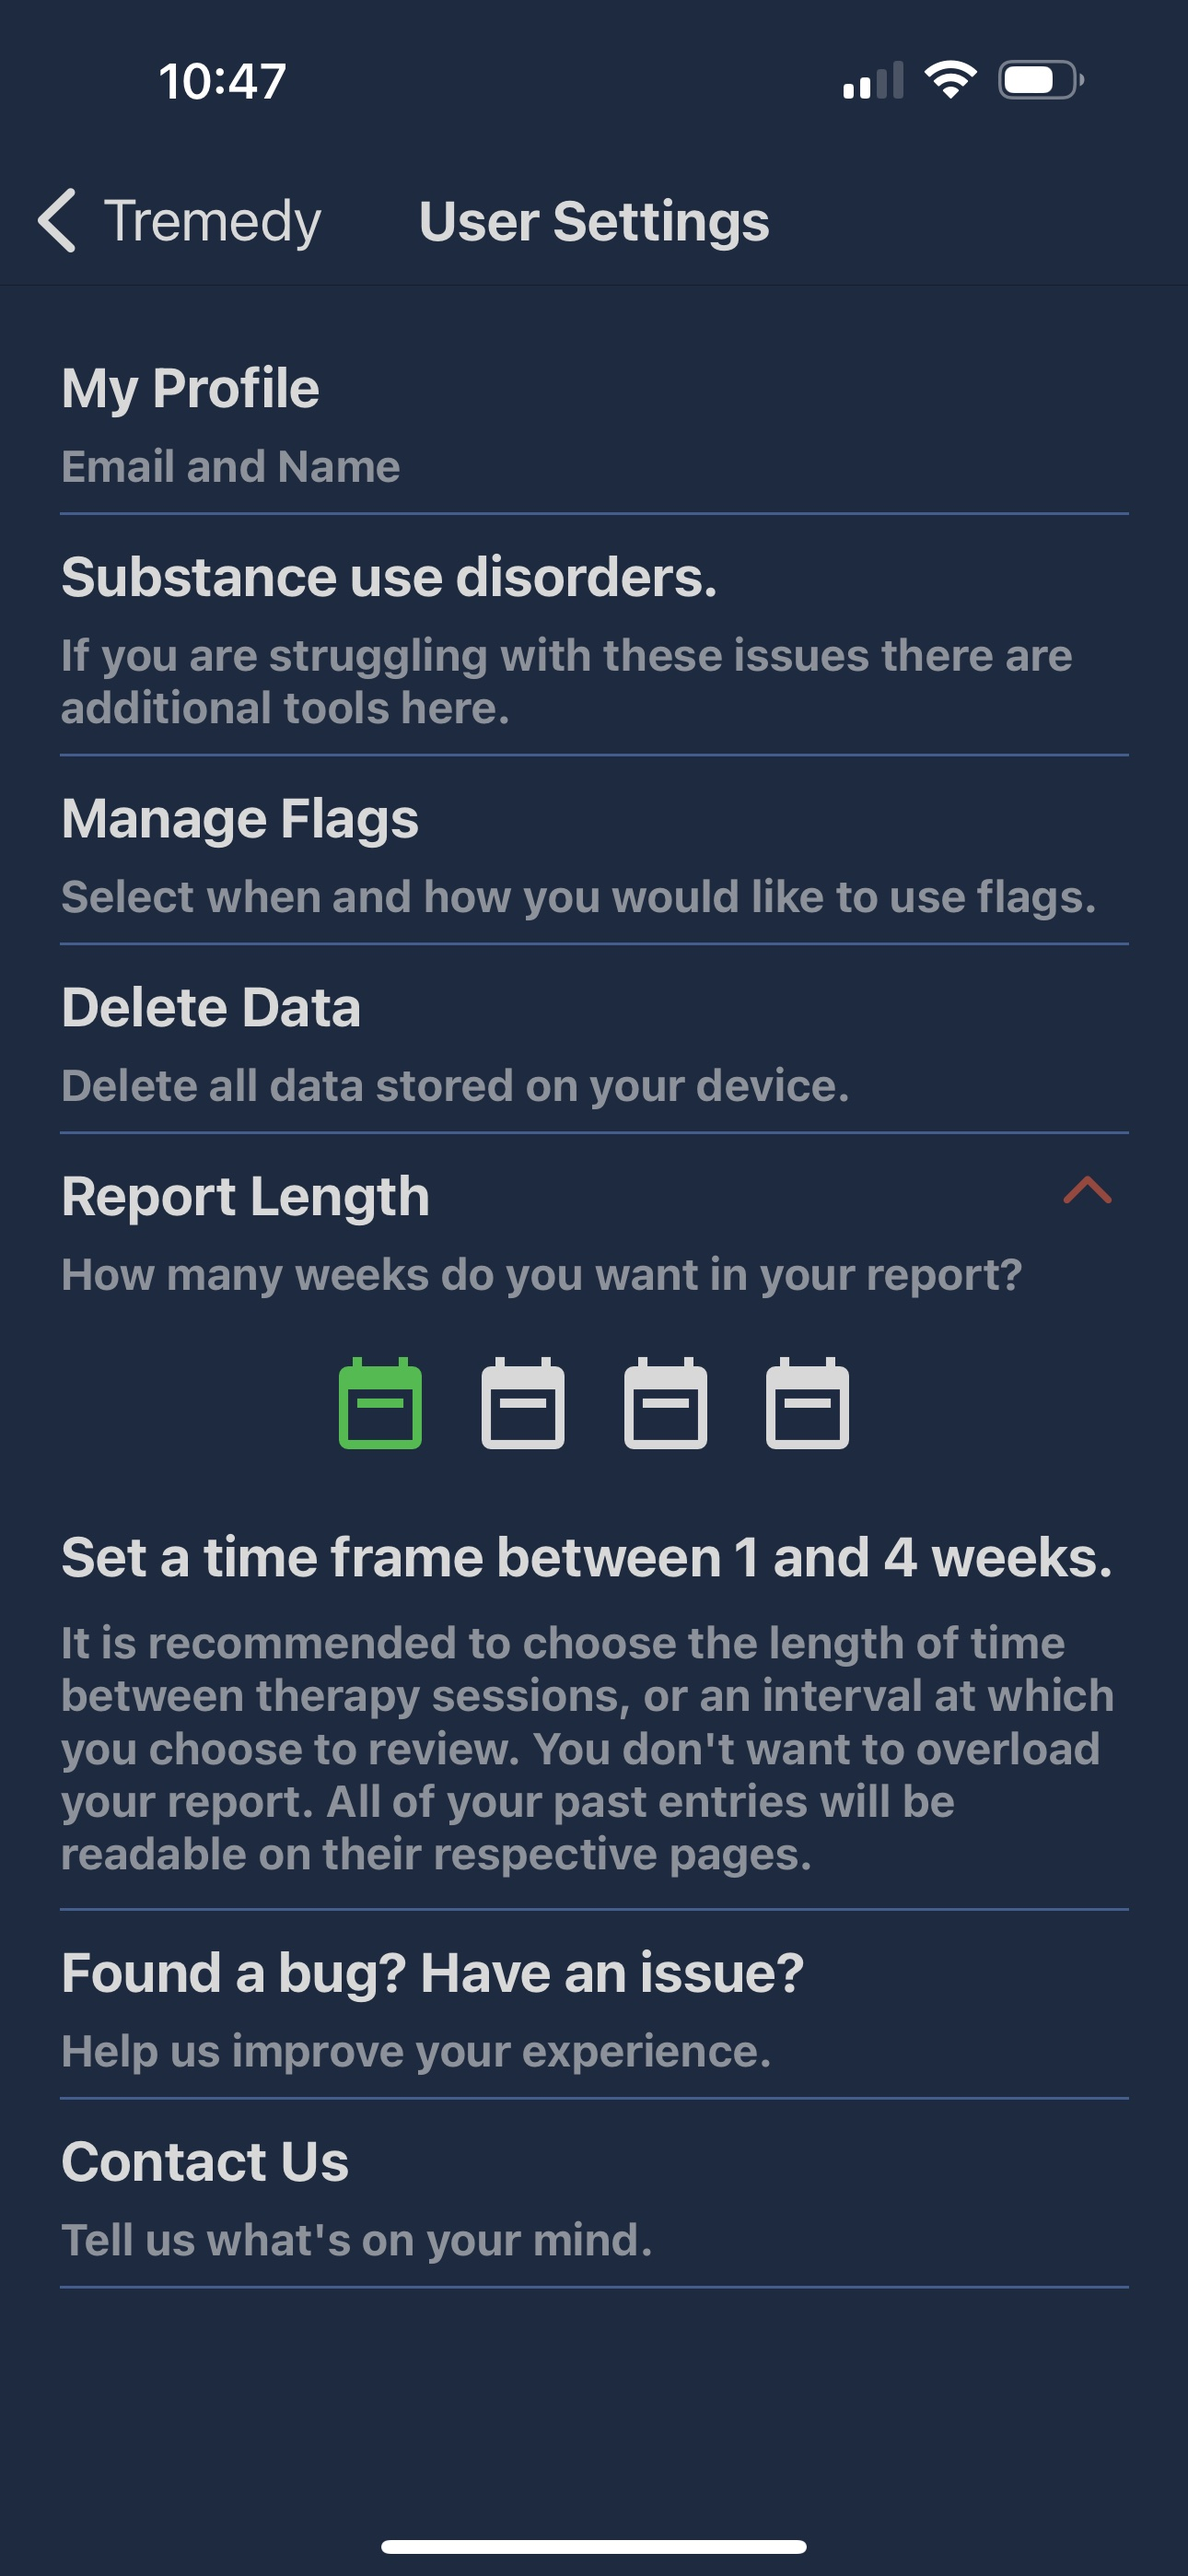
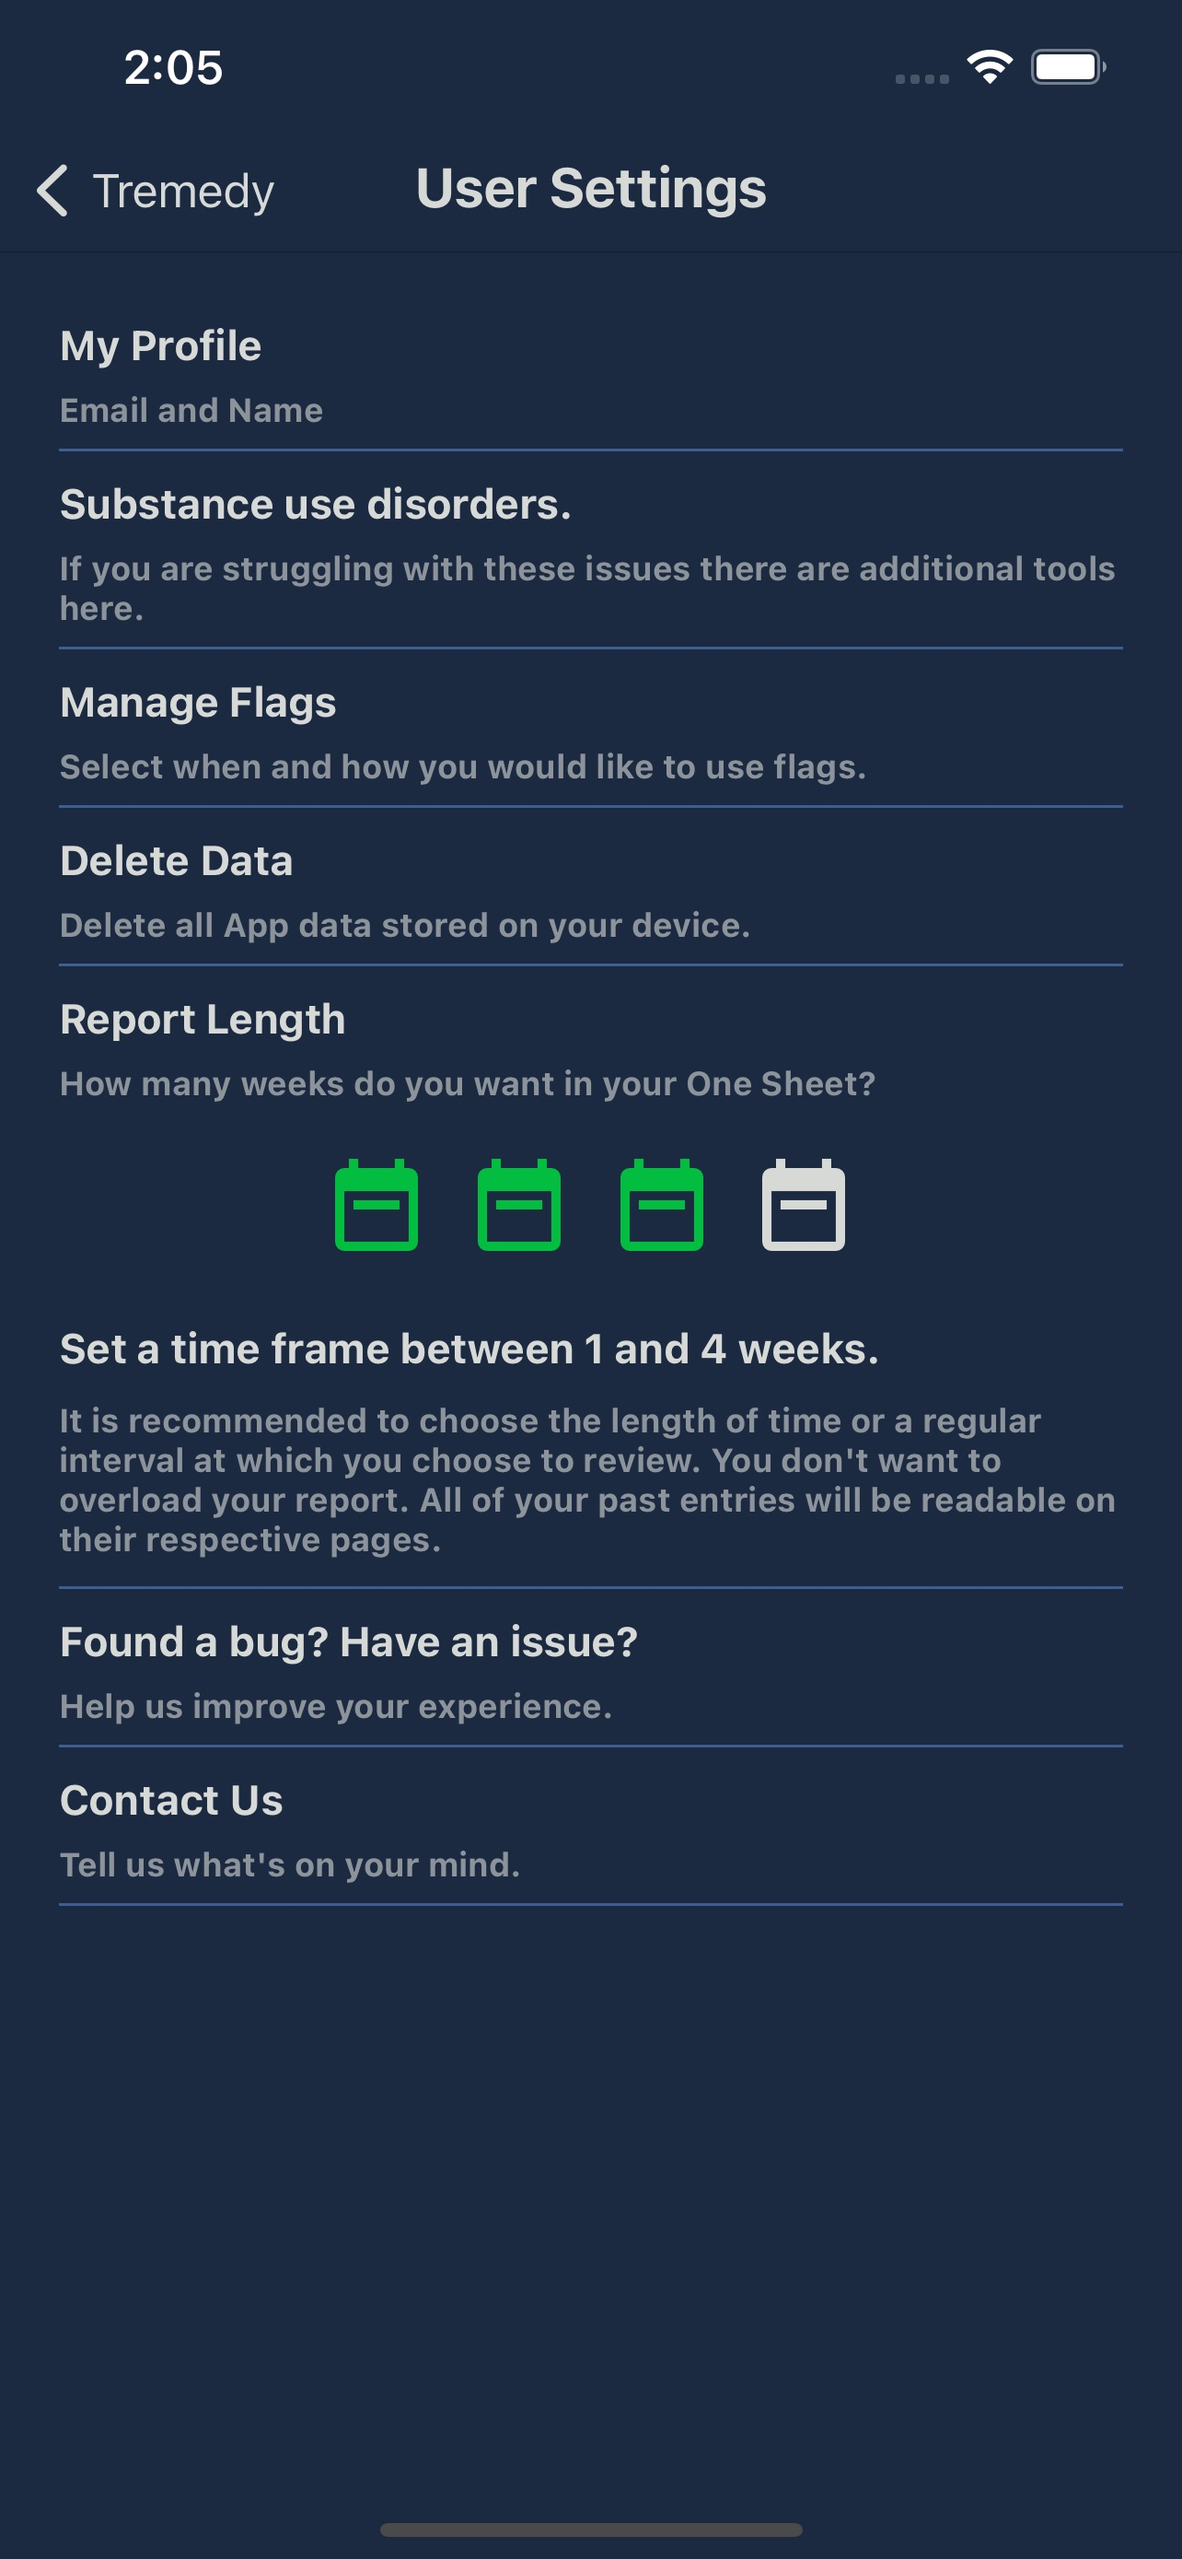
remove elevated state and some grounding, remove mention of therapy

diff --git a/helpers/optionsList.js b/helpers/optionsList.js
@@ -1,10 +1,16 @@
 export const pageOptions = [
+  // {
+  //   id: 1,
+  //   selected: false,
+  //   pageName: "PercievedThreatMenu",
+  //   sub: "I need to calm down now",
+  //   title: "Elevated State",
+  // },
   {
     id: 1,
-    selected: false,
-    pageName: "PercievedThreatMenu",
-    sub: "I need to calm down now",
-    title: "Elevated State",
+    pageName: "Breathe",
+    sub: "A guided breathing exercize.",
+    title: "Breathe",
   },
   {
     id: 2,
@@ -125,20 +131,20 @@ export const pageOptions = [
     sub: "Calm from the head down.",
     title: "Progressive Muscle Relaxation",
   },
-  {
-    id: 17,
-    selected: false,
-    pageName: "EyeInstruct",
-    title: "Left & Right",
-    sub: "Lateral Eye Movements",
-  },
-  {
-    id: 18,
-    selected: false,
-    pageName: "KneadInstruct",
-    title: "Knead your feet",
-    sub: "A grounding exercize.",
-  },
+  // {
+  //   id: 17,
+  //   selected: false,
+  //   pageName: "EyeInstruct",
+  //   title: "Left & Right",
+  //   sub: "Lateral Eye Movements",
+  // },
+  // {
+  //   id: 18,
+  //   selected: false,
+  //   pageName: "KneadInstruct",
+  //   title: "Knead your feet",
+  //   sub: "A grounding exercize.",
+  // },
   // {
   //   id: 19,
   //   selected: false,
@@ -155,38 +161,38 @@ export const pageOptions = [
   },
 ];
 
-export const elevatedOptions = [
-  {
-    id: 1,
-    pageName: "Breathe",
-    sub: "A guided breathing exercize.",
-    title: "Breathe",
-  },
-  {
-    id: 2,
-    pageName: "PMRInstruct",
-    sub: "Calm from the head down.",
-    title: "Progressive Muscle Relaxation",
-  },
-  {
-    id: 3,
-    pageName: "EyeInstruct",
-    title: "Left & Right",
-    sub: "Lateral Eye Movements",
-  },
-  {
-    id: 4,
-    pageName: "KneadInstruct",
-    title: "Toe curls",
-    sub: "A grounding exercize.",
-  },
-  {
-    id: 5,
-    pageName: "Scream",
-    title: "Scream",
-    sub: "Just let it out.",
-  },
-];
+// export const elevatedOptions = [
+  // {
+  //   id: 1,
+  //   pageName: "Breathe",
+  //   sub: "A guided breathing exercize.",
+  //   title: "Breathe",
+  // },
+//   {
+//     id: 2,
+//     pageName: "PMRInstruct",
+//     sub: "Calm from the head down.",
+//     title: "Progressive Muscle Relaxation",
+//   },
+//   {
+//     id: 3,
+//     pageName: "EyeInstruct",
+//     title: "Left & Right",
+//     sub: "Lateral Eye Movements",
+//   },
+//   {
+//     id: 4,
+//     pageName: "KneadInstruct",
+//     title: "Toe curls",
+//     sub: "A grounding exercize.",
+//   },
+//   {
+//     id: 5,
+//     pageName: "Scream",
+//     title: "Scream",
+//     sub: "Just let it out.",
+//   },
+// ];
 
 
 

diff --git a/screens/UserSettings.js b/screens/UserSettings.js
@@ -716,12 +716,12 @@ const UserSettings = () => {
     {
       id: 4,
       title: "Report Length",
-      subtitle: "How many weeks do you want in your report?",
+      subtitle: "How many weeks do you want in your One Sheet?",
       dropdown: !token.subscribed
         ? "Report settings can only be changed by members. The default is 1 week. To join, please see billing information below."
         : "Set a time frame between 1 and 4 weeks.",
       onText:
-        "It is recommended to choose the length of time between therapy sessions, or an interval at which you choose to review. You don't want to overload your report. All of your past entries will be readable on their respective pages.",
+        "It is recommended to choose the length of time or a regular interval at which you choose to review. You don't want to overload your report. All of your past entries will be readable on their respective pages.",
       notSubscribed:
         "There are still a number of tools you can use in the tool box!",
     },

diff --git a/screens/Using.js b/screens/Using.js
@@ -156,8 +156,8 @@ const Using = ({ navigation }) => {
                 Get some water. Do a breathing exercise.
               </Text>
               <Text style={look.sub}>
-                Set some alarms for your call. Do some of these exercises to
-                calm down. If you can, go to sleep or call someone else.
+                Set some alarms for your call. Breathe. If you can, go to sleep
+                or call someone else.
               </Text>
             </View>
           </View>
@@ -165,7 +165,7 @@ const Using = ({ navigation }) => {
             style={[look.border, { paddingBottom: "4%", paddingTop: "2%" }]}
           >
             <TouchableOpacity
-              onPress={() => navigation.navigate("PercievedThreatMenu")}
+              onPress={() => navigation.navigate("Breathe")}
               delayPressIn={150}
             >
               <Text style={[look.add, { textAlign: "center" }]}>
